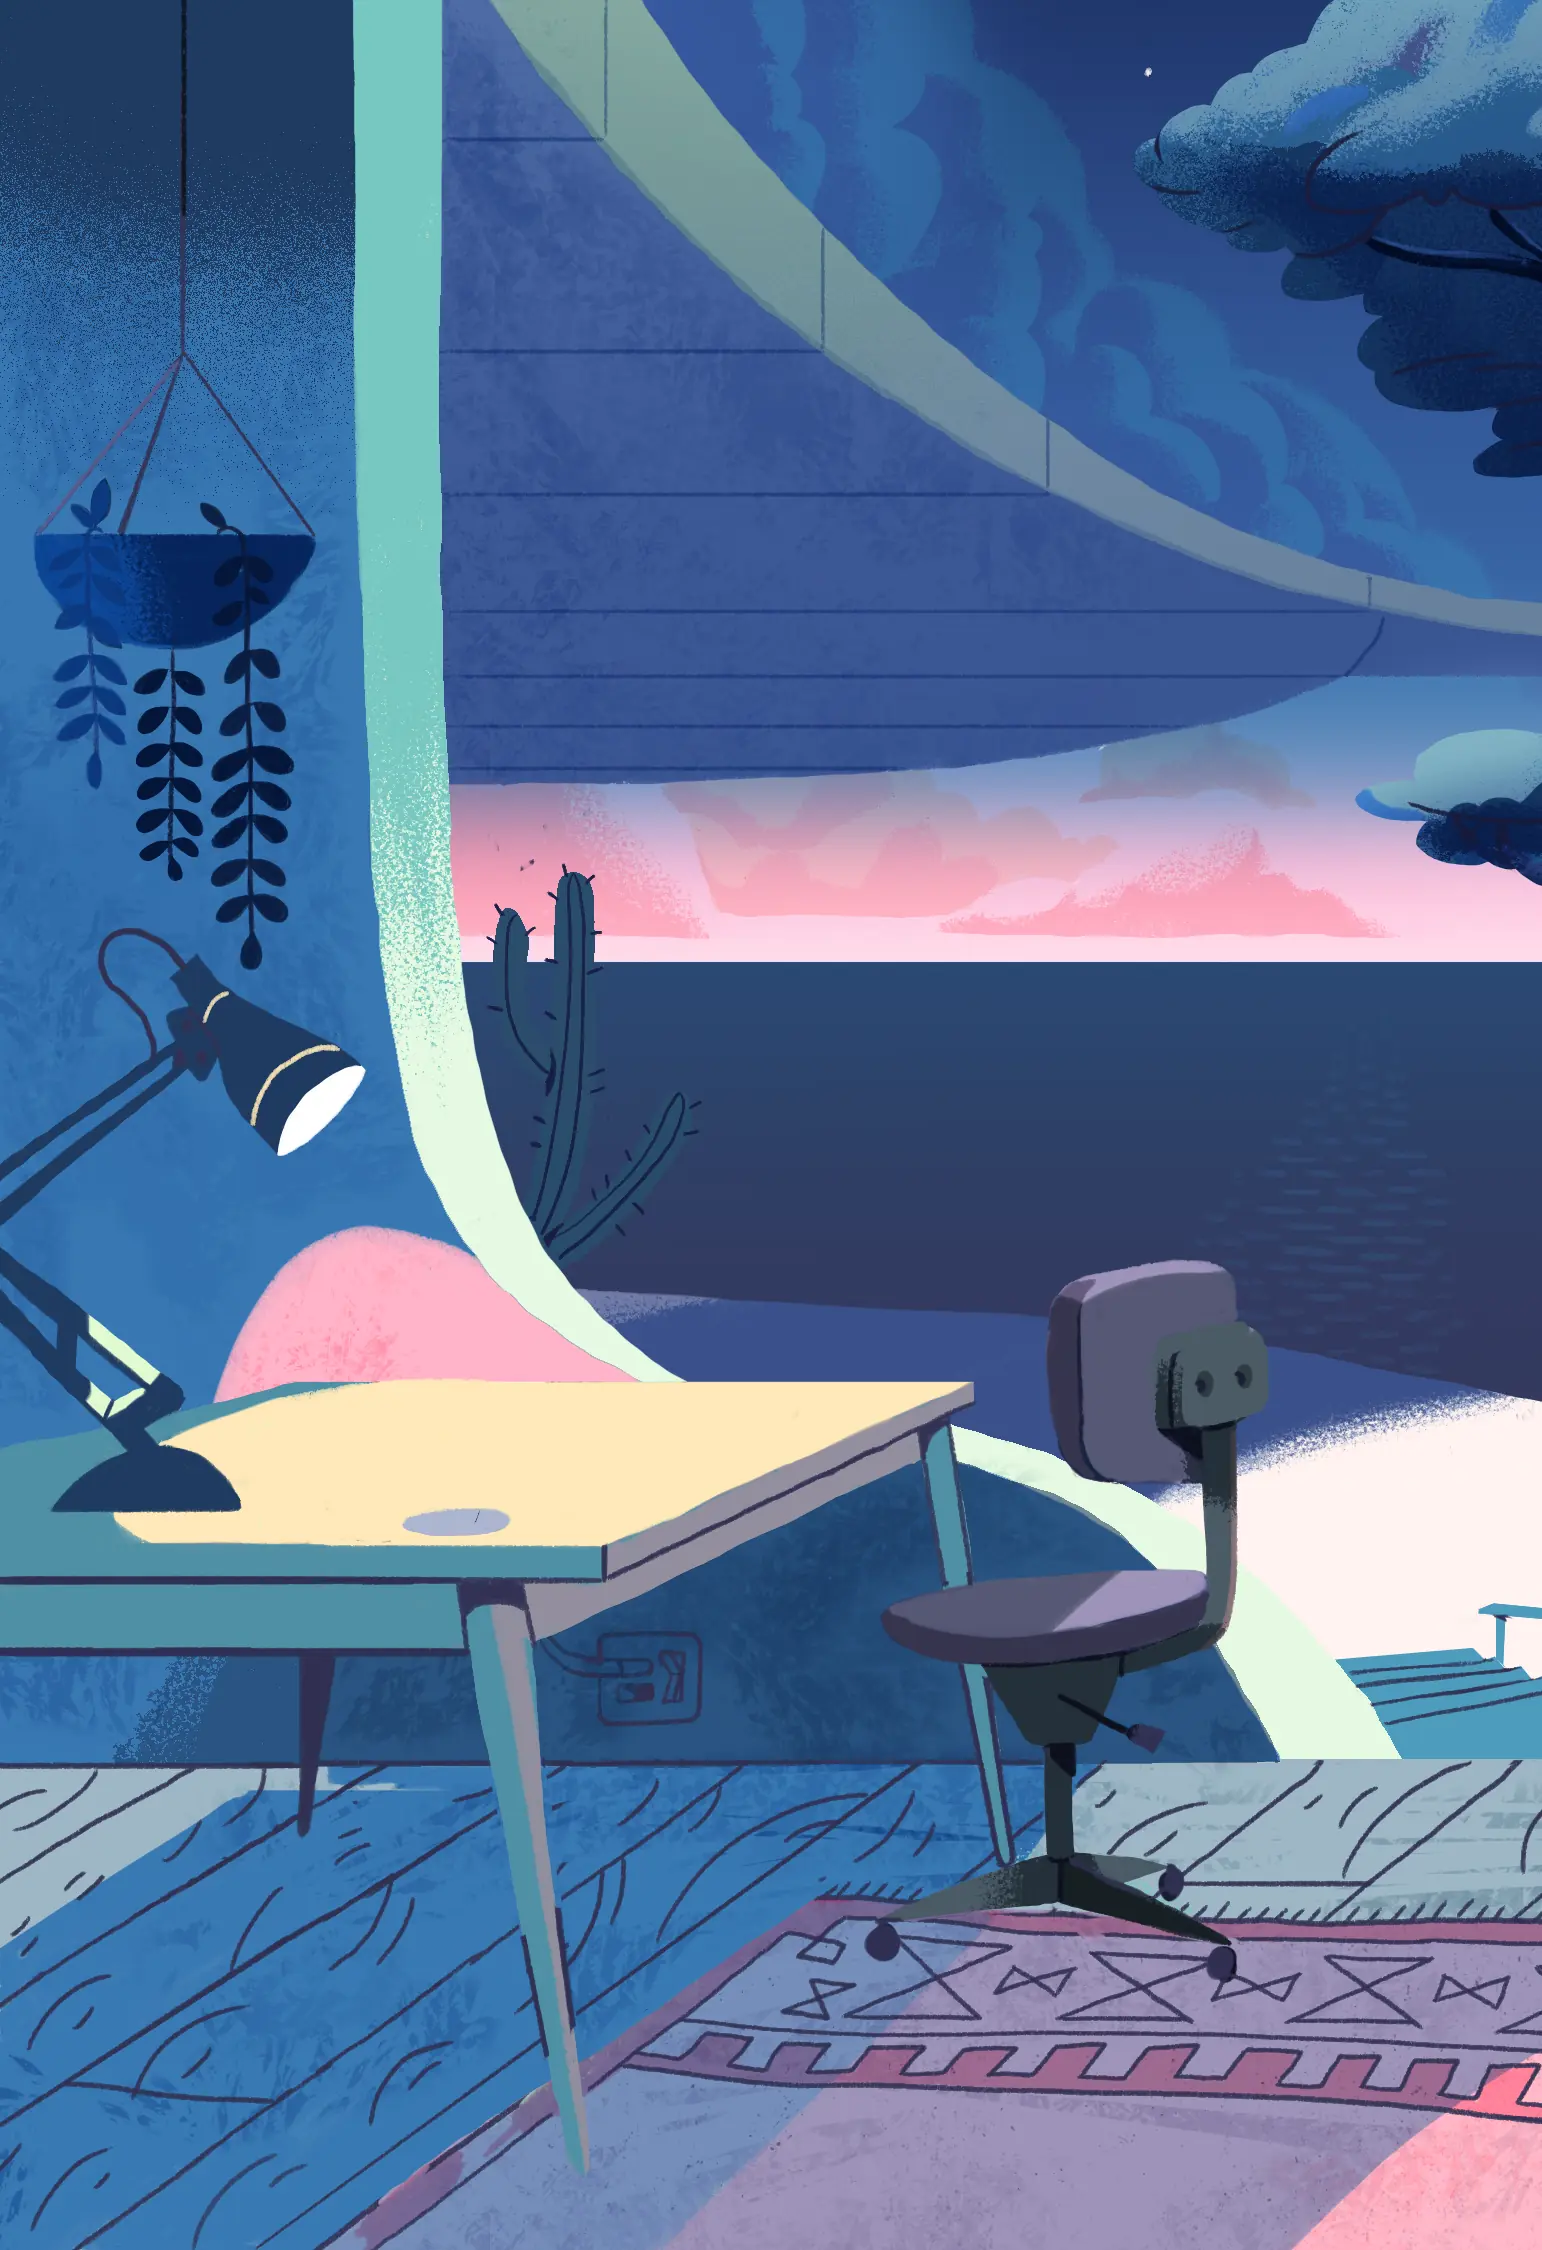
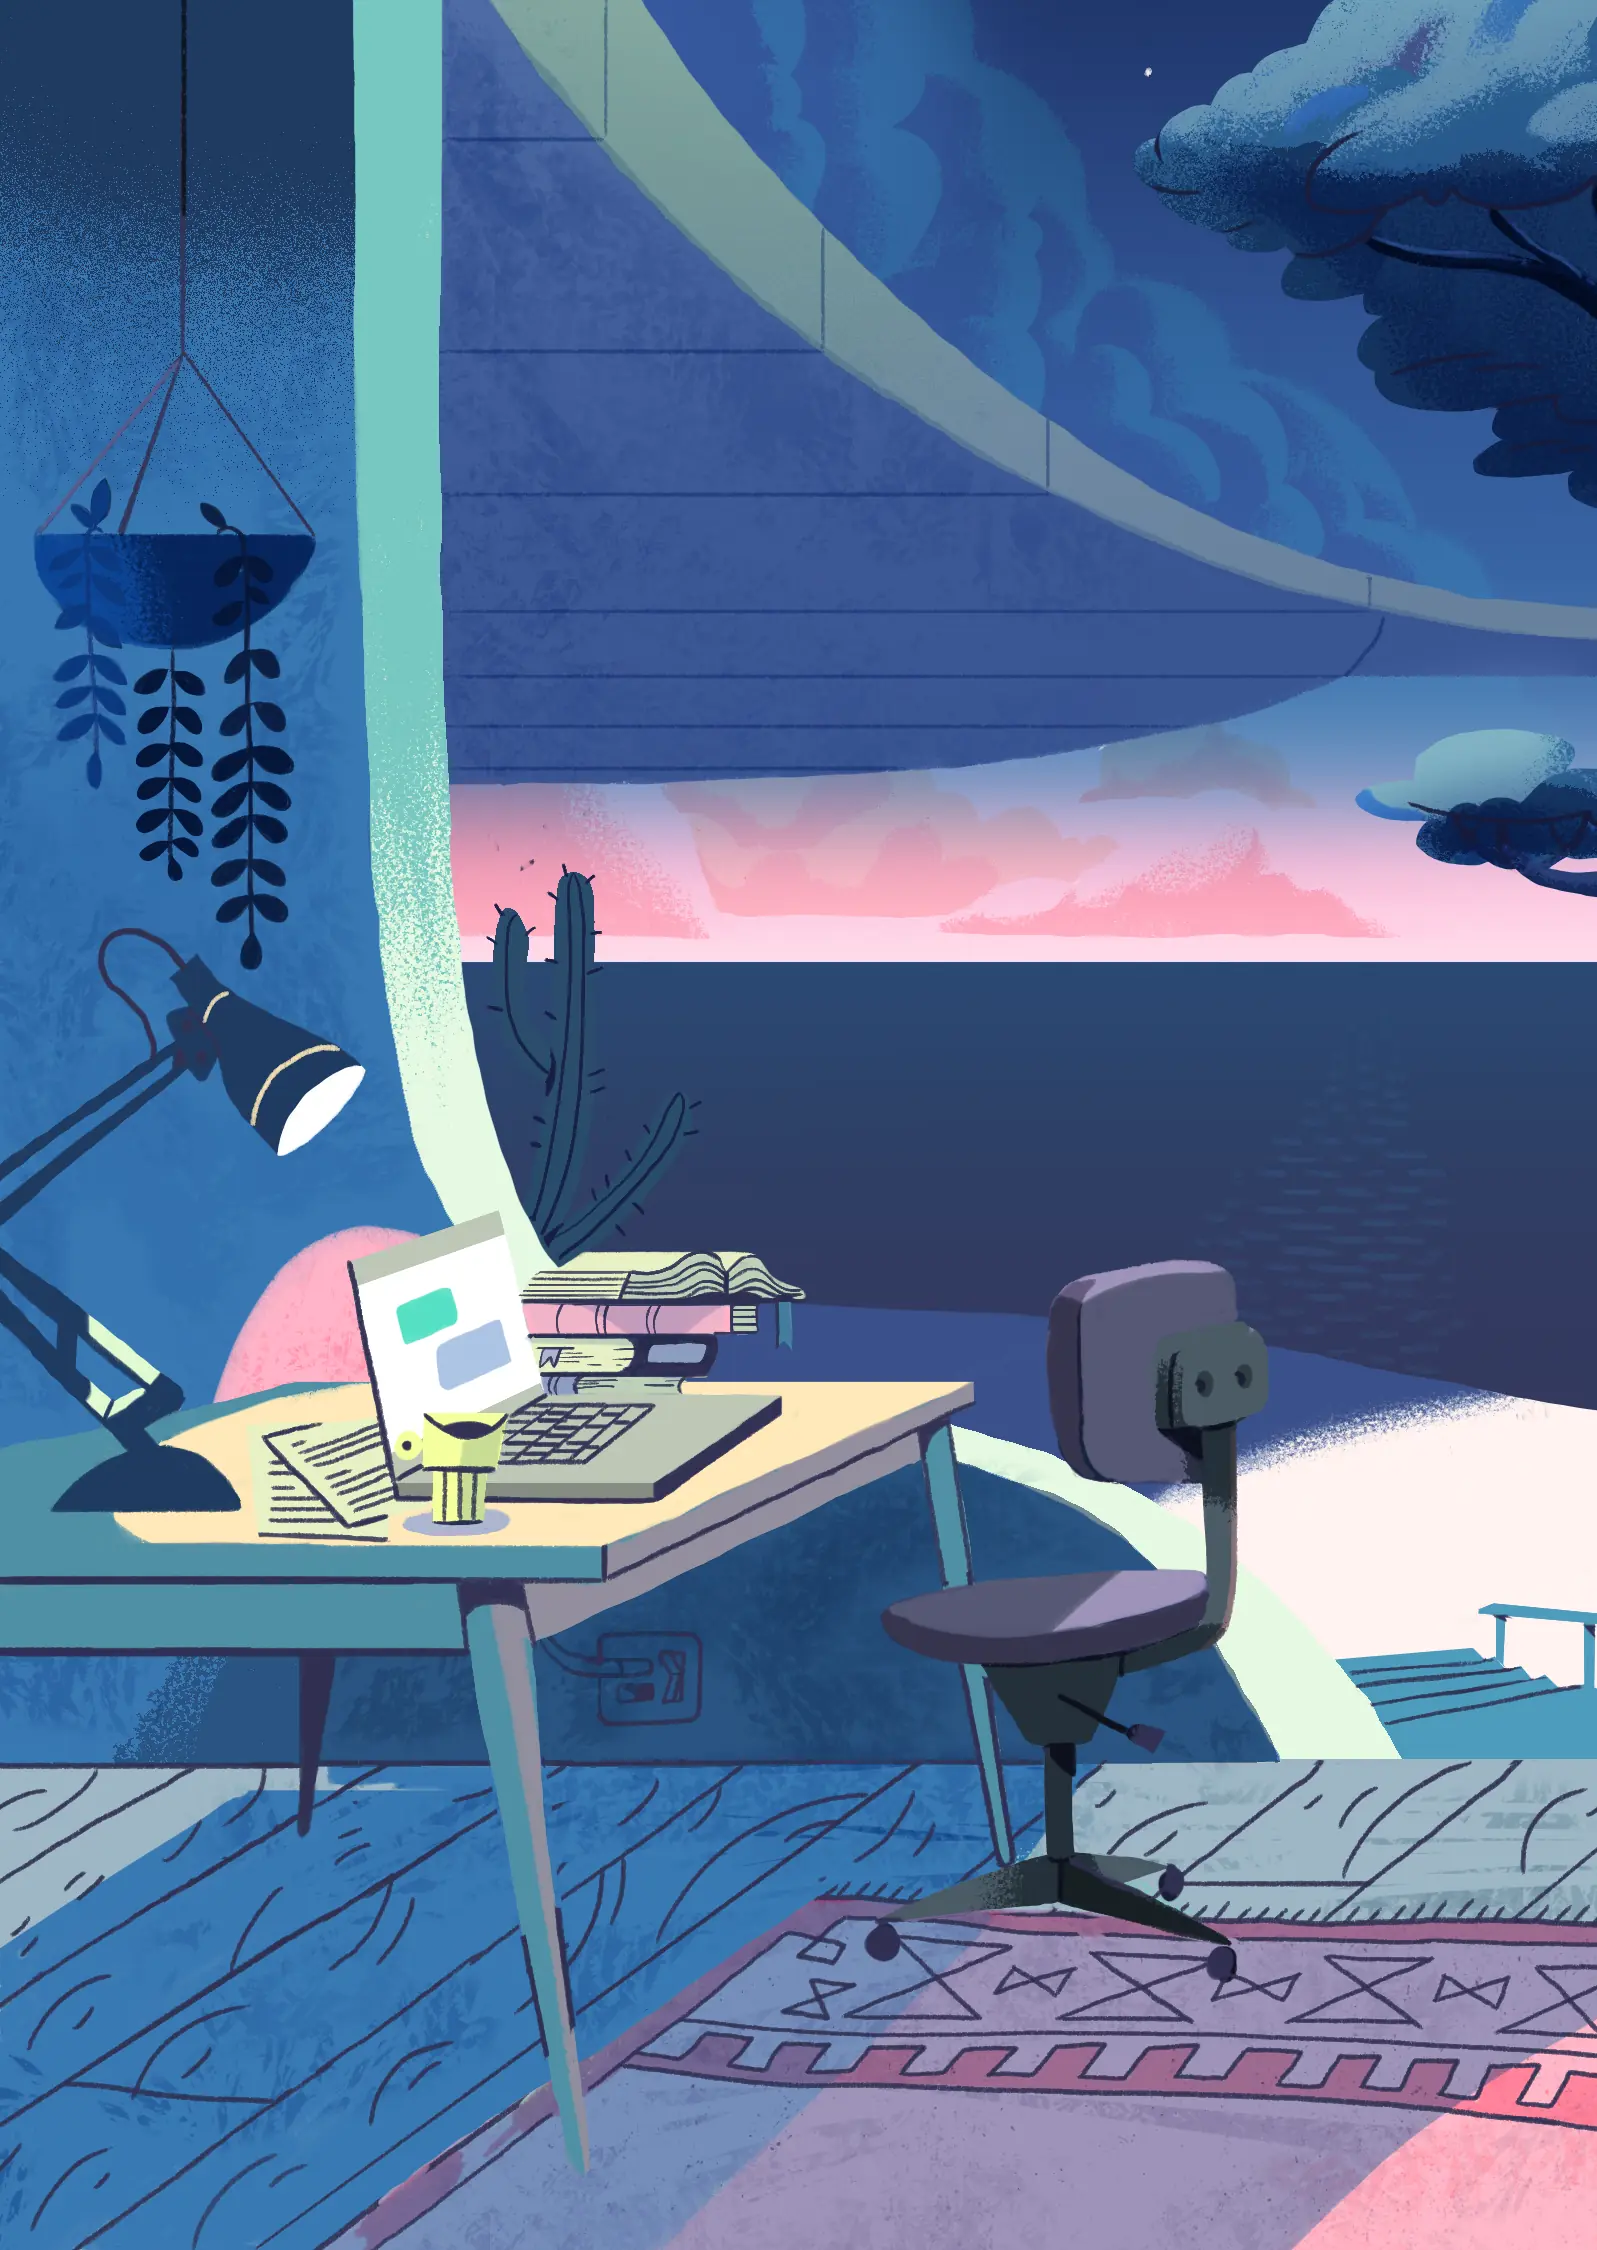
chrome fix

diff --git a/components/homepage.tsx b/components/homepage.tsx
@@ -32,14 +32,14 @@ const animations: {
     imageSizes: [470, 350, 280, 200],
     extension: "webp",
   },
-  // laptop: {
-  //   width: 576,
-  //   height: 375,
-  //   offsetX: 234,
-  //   offsetY: 698,
-  //   imageSizes: [260],
-  //   extension: "gif",
-  // },
+  laptop: {
+    width: 576,
+    height: 375,
+    offsetX: 234,
+    offsetY: 698,
+    imageSizes: [260],
+    extension: "gif",
+  },
   boat: {
     width: 164,
     height: 251,
@@ -131,8 +131,8 @@ export default class Homepage extends Component<HomeProps, HomeState> {
 
       const offsetX = naturalWidth * offsetXRatio;
       // don't load animations that would load offscreen
-      // e.g. on mobile devices
-      if (offsetX < cWidth) {
+      // e.g. on mobile devices. Also fudge factor for tiny amount of gif showing
+      if (offsetX + 25 < cWidth) {
         offsets[obj] = {
           offsetX: offsetX,
           offsetY: naturalHeight * offsetYRatio,
@@ -220,7 +220,6 @@ export default class Homepage extends Component<HomeProps, HomeState> {
               chosenWidth = w;
             }
           });
-          console.log(key, renderedWidth, chosenWidth);
           // if we're actually on the homepage, render the gifs
           return (
             <div
@@ -254,7 +253,7 @@ export default class Homepage extends Component<HomeProps, HomeState> {
 
     let staticCss = "";
     let bestCss: string[] = [];
-    let baseImage = encodeURIComponent("/no-boat.webp");
+    let baseImage = encodeURIComponent("/desktop.webp");
 
     // this very goofy past-midnight code is set up so that initial download
     // will get the right image with media queries, but subsequently the css

diff --git a/styles/globals.css b/styles/globals.css
@@ -42,13 +42,22 @@
 /* hack to keep the logo in the same place when user chooses a new page */
 html {
   width: 100vw;
-  height: -webkit-fill-available;
   overflow-x: hidden;
 }
 
 body {
   font: 17px/1.6 var(--body-font);
   background: var(--dark-bg-color);
+}
+
+/*
+putting this on all the containers is required for Chrome,
+when you can't use height 100vh for iOS Safari
+*/
+#__next,
+body,
+html {
+  height: stretch;
 }
 
 a {
@@ -99,7 +108,7 @@ p:last-child {
   /* 100vh hack for iOS nav bar: 
      https://allthingssmitty.com/2020/05/11/css-fix-for-100vh-in-mobile-webkit/
   */
-  height: -webkit-fill-available;
+  min-height: stretch;
   background-repeat: no-repeat;
   background-size: cover;
   background-position: left 0 bottom 0;

diff --git a/pages/_app.tsx b/pages/_app.tsx
@@ -47,13 +47,11 @@ function MyApp({ Component, pageProps }: AppProps) {
         </Link>
       </div>
 
-      <div className={"SiteWrapper"} key="site">
-        <Homepage homepageIsCurrent={isHomepage} />
-        <Nav title={titles[router.pathname]}></Nav>
-        <Transition location={router.pathname}>
-          <Component {...pageProps} />
-        </Transition>
-      </div>
+      <Homepage homepageIsCurrent={isHomepage} />
+      <Nav title={titles[router.pathname]}></Nav>
+      <Transition location={router.pathname}>
+        <Component {...pageProps} />
+      </Transition>
     </>
   );
 }
